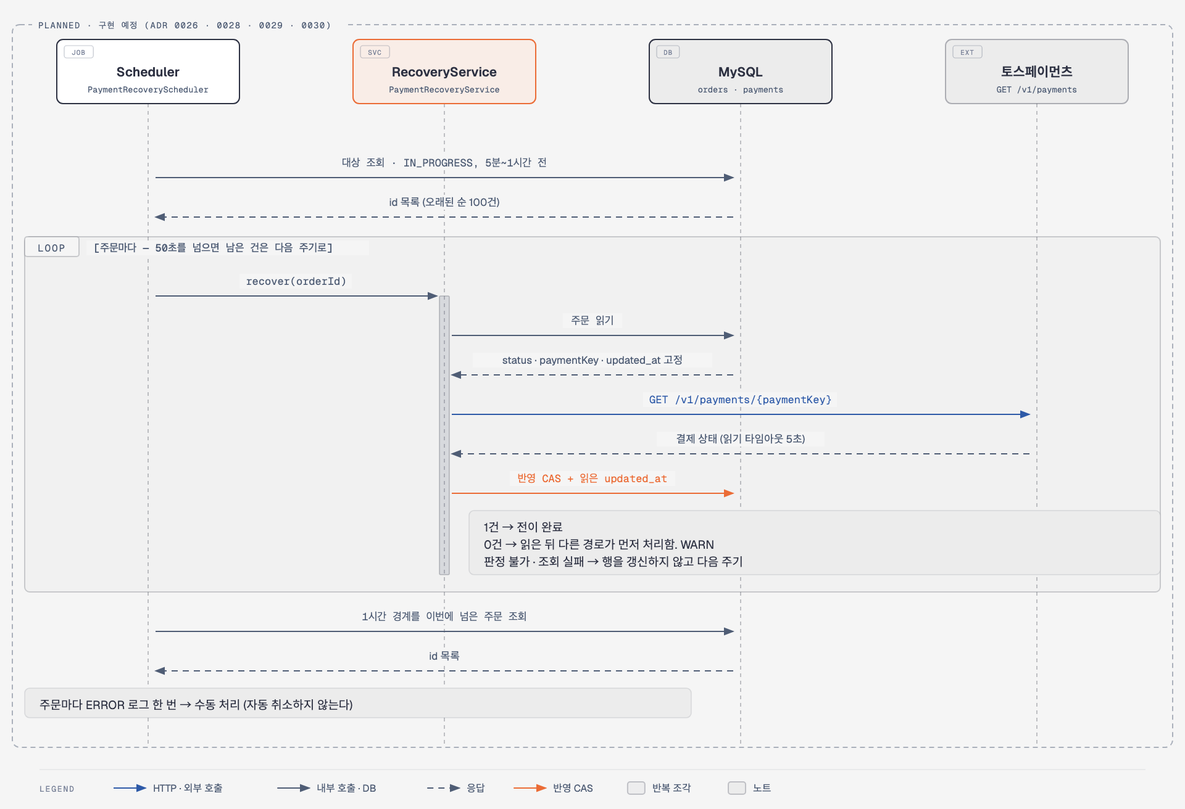
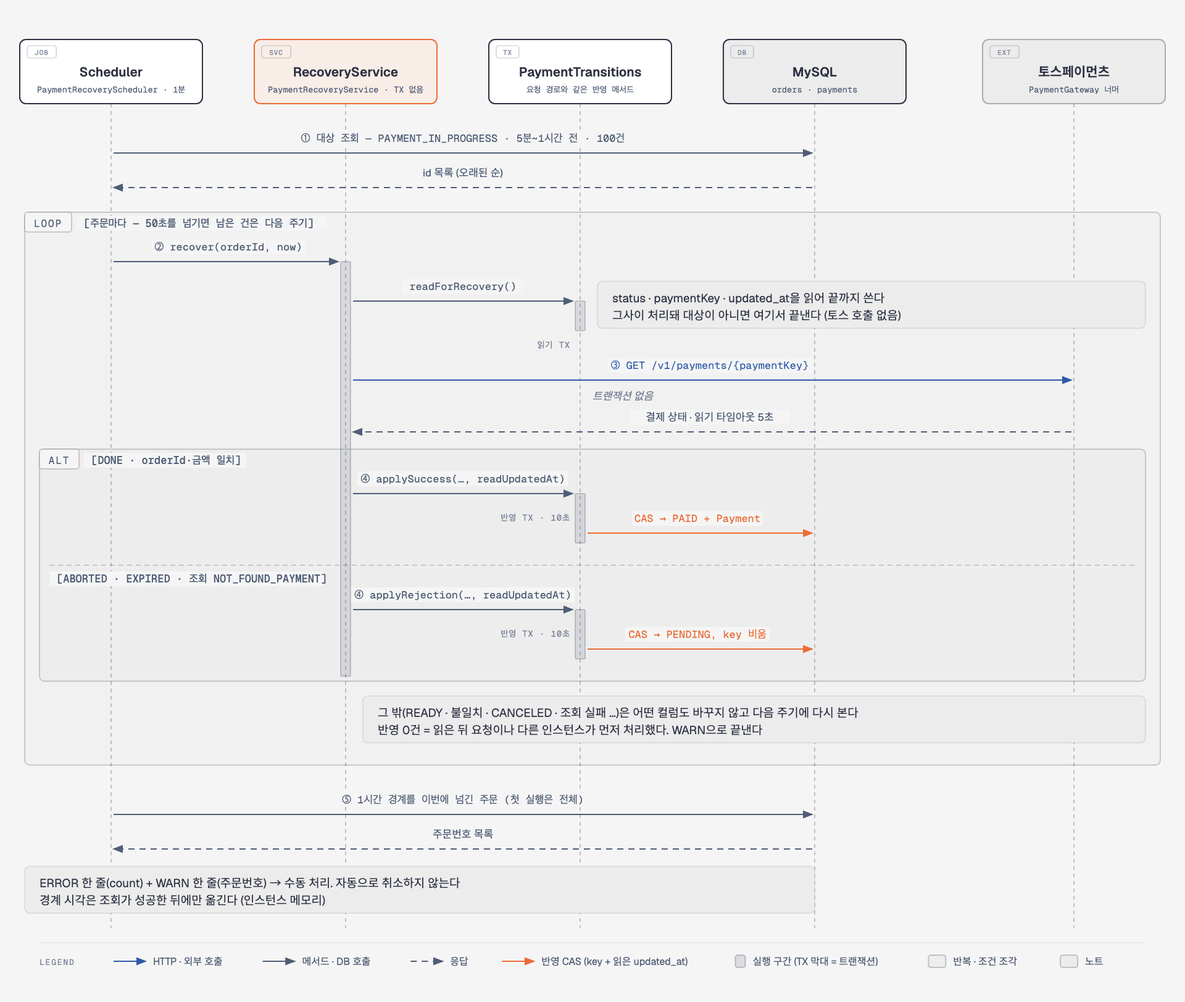
docs: 복구 배치 시퀀스 다이어그램을 구현에 맞춰 다시 그린다

diff --git a/docs/diagrams/src/seq-payment-recovery.html b/docs/diagrams/src/seq-payment-recovery.html
@@ -8,94 +8,123 @@
 <style>html,body{margin:0;padding:0;background:#f5f5f5}svg{display:block}</style>
 </head>
 <body>
-<svg xmlns="http://www.w3.org/2000/svg" viewBox="0 0 960 656" width="960" height="656" role="img" aria-labelledby="seq-payment-recovery-title seq-payment-recovery-desc">
+<svg xmlns="http://www.w3.org/2000/svg" viewBox="0 0 960 812" width="960" height="812" role="img" aria-labelledby="seq-payment-recovery-title seq-payment-recovery-desc">
 <title id="seq-payment-recovery-title">결제 복구 배치</title>
-<desc id="seq-payment-recovery-desc">멈춘 결제·환불 주문을 골라 토스 조회 결과로 상태를 바로잡고, 1시간 넘은 주문을 수동 처리로 넘기는 복구 배치 과정</desc>
-<defs><marker id="seq-payment-recovery-m" markerWidth="8" markerHeight="6" refX="7" refY="3" orient="auto"><polygon points="0 0, 8 3, 0 6" fill="#4f5d75"/></marker><marker id="seq-payment-recovery-i" markerWidth="8" markerHeight="6" refX="7" refY="3" orient="auto"><polygon points="0 0, 8 3, 0 6" fill="#2d3142"/></marker><marker id="seq-payment-recovery-l" markerWidth="8" markerHeight="6" refX="7" refY="3" orient="auto"><polygon points="0 0, 8 3, 0 6" fill="#2e5aa8"/></marker><marker id="seq-payment-recovery-a" markerWidth="8" markerHeight="6" refX="7" refY="3" orient="auto"><polygon points="0 0, 8 3, 0 6" fill="#eb6c36"/></marker></defs>
-<rect width="960" height="656" fill="#f5f5f5"/>
-<line x1="120" y1="84" x2="120" y2="606" stroke="rgba(45,49,66,0.28)" stroke-dasharray="3,3"/>
-<line x1="360" y1="84" x2="360" y2="606" stroke="rgba(45,49,66,0.28)" stroke-dasharray="3,3"/>
-<line x1="600" y1="84" x2="600" y2="606" stroke="rgba(45,49,66,0.28)" stroke-dasharray="3,3"/>
-<line x1="840" y1="84" x2="840" y2="606" stroke="rgba(45,49,66,0.28)" stroke-dasharray="3,3"/>
-<rect x="10" y="20" width="940" height="586" rx="6" fill="none" stroke="rgba(79,93,117,0.45)" stroke-dasharray="4,3"/>
-<rect x="26" y="14" width="255" height="12" fill="#f5f5f5"/>
-<text x="31" y="23" fill="#4f5d75" font-size="7" font-weight="400" font-family="'Geist Mono',ui-monospace,monospace" text-anchor="start" letter-spacing="0.1em">PLANNED · 구현 예정 (ADR 0026 · 0028 · 0029 · 0030)</text>
-<rect x="20" y="192" width="920" height="288" rx="4" fill="rgba(45,49,66,0.02)" stroke="rgba(45,49,66,0.22)"/>
-<rect x="20" y="192" width="44" height="16" rx="2" fill="#f5f5f5" stroke="rgba(45,49,66,0.22)"/>
-<text x="42" y="204" fill="#4f5d75" font-size="8" font-weight="400" font-family="'Geist Mono',ui-monospace,monospace" text-anchor="middle" letter-spacing="0.12em">LOOP</text>
-<rect x="356" y="240" width="8" height="226" rx="1" fill="rgba(79,93,117,0.16)" stroke="rgba(45,49,66,0.28)" stroke-width="0.8"/>
-<path d="M126 144 H594" fill="none" stroke="#4f5d75" stroke-width="1.1" marker-end="url(#seq-payment-recovery-m)"/>
-<rect x="269" y="126" width="182" height="12" fill="#f5f5f5"/>
-<text x="360.0" y="135" fill="#4f5d75" font-size="8.5" font-weight="400" font-family="'Geist Mono',ui-monospace,monospace" text-anchor="middle">대상 조회 · IN_PROGRESS, 5분~1시간 전</text>
-<path d="M594 176 H126" fill="none" stroke="#4f5d75" stroke-width="1.1" stroke-dasharray="5,4" marker-end="url(#seq-payment-recovery-m)"/>
-<rect x="298" y="158" width="123" height="12" fill="#f5f5f5"/>
-<text x="360.0" y="167" fill="#4f5d75" font-size="8.5" font-weight="400" font-family="'Geist','Noto Sans KR','Apple SD Gothic Neo',sans-serif" text-anchor="middle">id 목록 (오래된 순 100건)</text>
-<rect x="70" y="195" width="229" height="12" fill="#f5f5f5"/>
-<text x="76" y="204" fill="#4f5d75" font-size="8.5" font-weight="500" font-family="'Geist Mono',ui-monospace,monospace" text-anchor="start">[주문마다 — 50초를 넘으면 남은 건은 다음 주기로]</text>
-<path d="M126 240 H354" fill="none" stroke="#4f5d75" stroke-width="1.1" marker-end="url(#seq-payment-recovery-m)"/>
-<rect x="194" y="222" width="91" height="12" fill="#f5f5f5"/>
-<text x="240.0" y="231" fill="#4f5d75" font-size="8.5" font-weight="400" font-family="'Geist Mono',ui-monospace,monospace" text-anchor="middle">recover(orderId)</text>
-<path d="M366 272 H594" fill="none" stroke="#4f5d75" stroke-width="1.1" marker-end="url(#seq-payment-recovery-m)"/>
-<rect x="456" y="254" width="48" height="12" fill="#f5f5f5"/>
-<text x="480.0" y="263" fill="#4f5d75" font-size="8.5" font-weight="400" font-family="'Geist Mono',ui-monospace,monospace" text-anchor="middle">주문 읽기</text>
-<path d="M594 304 H366" fill="none" stroke="#4f5d75" stroke-width="1.1" stroke-dasharray="5,4" marker-end="url(#seq-payment-recovery-m)"/>
-<rect x="383" y="286" width="194" height="12" fill="#f5f5f5"/>
-<text x="480.0" y="295" fill="#4f5d75" font-size="8.5" font-weight="400" font-family="'Geist','Noto Sans KR','Apple SD Gothic Neo',sans-serif" text-anchor="middle">status · paymentKey · updated_at 고정</text>
-<path d="M366 336 H834" fill="none" stroke="#2e5aa8" stroke-width="1.1" marker-end="url(#seq-payment-recovery-l)"/>
-<rect x="521" y="318" width="157" height="12" fill="#f5f5f5"/>
-<text x="600.0" y="327" fill="#2e5aa8" font-size="8.5" font-weight="400" font-family="'Geist Mono',ui-monospace,monospace" text-anchor="middle">GET /v1/payments/{paymentKey}</text>
-<path d="M834 368 H366" fill="none" stroke="#4f5d75" stroke-width="1.1" stroke-dasharray="5,4" marker-end="url(#seq-payment-recovery-m)"/>
-<rect x="532" y="350" width="136" height="12" fill="#f5f5f5"/>
-<text x="600.0" y="359" fill="#4f5d75" font-size="8.5" font-weight="400" font-family="'Geist','Noto Sans KR','Apple SD Gothic Neo',sans-serif" text-anchor="middle">결제 상태 (읽기 타임아웃 5초)</text>
-<path d="M366 400 H594" fill="none" stroke="#eb6c36" stroke-width="1.1" marker-end="url(#seq-payment-recovery-a)"/>
-<rect x="413" y="382" width="134" height="12" fill="#f5f5f5"/>
-<text x="480.0" y="391" fill="#eb6c36" font-size="8.5" font-weight="400" font-family="'Geist Mono',ui-monospace,monospace" text-anchor="middle">반영 CAS + 읽은 updated_at</text>
-<rect x="380" y="414" width="560" height="52" rx="4" fill="#ececec" stroke="rgba(45,49,66,0.12)" stroke-width="0.8"/>
-<text x="392" y="431" fill="#2d3142" font-size="9.5" font-weight="400" font-family="'Geist','Noto Sans KR','Apple SD Gothic Neo',sans-serif" text-anchor="start">1건 → 전이 완료</text>
-<text x="392" y="445" fill="#2d3142" font-size="9.5" font-weight="400" font-family="'Geist','Noto Sans KR','Apple SD Gothic Neo',sans-serif" text-anchor="start">0건 → 읽은 뒤 다른 경로가 먼저 처리함. WARN</text>
-<text x="392" y="459" fill="#2d3142" font-size="9.5" font-weight="400" font-family="'Geist','Noto Sans KR','Apple SD Gothic Neo',sans-serif" text-anchor="start">판정 불가 · 조회 실패 → 행을 갱신하지 않고 다음 주기</text>
-<path d="M126 512 H594" fill="none" stroke="#4f5d75" stroke-width="1.1" marker-end="url(#seq-payment-recovery-m)"/>
-<rect x="282" y="494" width="155" height="12" fill="#f5f5f5"/>
-<text x="360.0" y="503" fill="#4f5d75" font-size="8.5" font-weight="400" font-family="'Geist Mono',ui-monospace,monospace" text-anchor="middle">1시간 경계를 이번에 넘은 주문 조회</text>
-<path d="M594 544 H126" fill="none" stroke="#4f5d75" stroke-width="1.1" stroke-dasharray="5,4" marker-end="url(#seq-payment-recovery-m)"/>
-<rect x="339" y="526" width="42" height="12" fill="#f5f5f5"/>
-<text x="360.0" y="535" fill="#4f5d75" font-size="8.5" font-weight="400" font-family="'Geist','Noto Sans KR','Apple SD Gothic Neo',sans-serif" text-anchor="middle">id 목록</text>
-<rect x="20" y="558" width="540" height="24" rx="4" fill="#ececec" stroke="rgba(45,49,66,0.12)" stroke-width="0.8"/>
-<text x="32" y="575" fill="#2d3142" font-size="9.5" font-weight="400" font-family="'Geist','Noto Sans KR','Apple SD Gothic Neo',sans-serif" text-anchor="start">주문마다 ERROR 로그 한 번 → 수동 처리 (자동 취소하지 않는다)</text>
-<rect x="46" y="32" width="148" height="52" rx="5" fill="#ffffff" stroke="#2d3142"/>
-<rect x="52" y="37" width="23.6" height="10" rx="2" fill="none" stroke="rgba(79,93,117,0.35)" stroke-width="0.6"/>
-<text x="63.8" y="44.4" fill="#7a8399" font-size="5.5" font-weight="400" font-family="'Geist Mono',ui-monospace,monospace" text-anchor="middle" letter-spacing="0.08em">JOB</text>
-<text x="120" y="62" fill="#2d3142" font-size="10.5" font-weight="600" font-family="'Geist','Noto Sans KR','Apple SD Gothic Neo',sans-serif" text-anchor="middle">Scheduler</text>
-<text x="120" y="75" fill="#4f5d75" font-size="6.8" font-weight="400" font-family="'Geist Mono',ui-monospace,monospace" text-anchor="middle">PaymentRecoveryScheduler</text>
-<rect x="286" y="32" width="148" height="52" rx="5" fill="#f9ede7" stroke="#eb6c36"/>
-<rect x="292" y="37" width="23.6" height="10" rx="2" fill="none" stroke="rgba(79,93,117,0.35)" stroke-width="0.6"/>
-<text x="303.8" y="44.4" fill="#7a8399" font-size="5.5" font-weight="400" font-family="'Geist Mono',ui-monospace,monospace" text-anchor="middle" letter-spacing="0.08em">SVC</text>
-<text x="360" y="62" fill="#2d3142" font-size="10.5" font-weight="600" font-family="'Geist','Noto Sans KR','Apple SD Gothic Neo',sans-serif" text-anchor="middle">RecoveryService</text>
-<text x="360" y="75" fill="#4f5d75" font-size="6.8" font-weight="400" font-family="'Geist Mono',ui-monospace,monospace" text-anchor="middle">PaymentRecoveryService</text>
-<rect x="526" y="32" width="148" height="52" rx="5" fill="#ececec" stroke="#2d3142"/>
-<rect x="532" y="37" width="18.4" height="10" rx="2" fill="none" stroke="rgba(79,93,117,0.35)" stroke-width="0.6"/>
-<text x="541.2" y="44.4" fill="#7a8399" font-size="5.5" font-weight="400" font-family="'Geist Mono',ui-monospace,monospace" text-anchor="middle" letter-spacing="0.08em">DB</text>
-<text x="600" y="62" fill="#2d3142" font-size="10.5" font-weight="600" font-family="'Geist','Noto Sans KR','Apple SD Gothic Neo',sans-serif" text-anchor="middle">MySQL</text>
-<text x="600" y="75" fill="#4f5d75" font-size="6.8" font-weight="400" font-family="'Geist Mono',ui-monospace,monospace" text-anchor="middle">orders · payments</text>
-<rect x="766" y="32" width="148" height="52" rx="5" fill="#ececec" stroke="rgba(45,49,66,0.35)"/>
-<rect x="772" y="37" width="23.6" height="10" rx="2" fill="none" stroke="rgba(79,93,117,0.35)" stroke-width="0.6"/>
-<text x="783.8" y="44.4" fill="#7a8399" font-size="5.5" font-weight="400" font-family="'Geist Mono',ui-monospace,monospace" text-anchor="middle" letter-spacing="0.08em">EXT</text>
-<text x="840" y="62" fill="#2d3142" font-size="10.5" font-weight="600" font-family="'Geist','Noto Sans KR','Apple SD Gothic Neo',sans-serif" text-anchor="middle">토스페이먼츠</text>
-<text x="840" y="75" fill="#4f5d75" font-size="6.8" font-weight="400" font-family="'Geist Mono',ui-monospace,monospace" text-anchor="middle">GET /v1/payments</text>
-<line x1="32" y1="624" x2="928" y2="624" stroke="rgba(45,49,66,0.12)" stroke-width="0.6"/>
-<text x="32" y="642" fill="#7a8399" font-size="6.5" font-weight="400" font-family="'Geist Mono',ui-monospace,monospace" text-anchor="start" letter-spacing="0.14em">LEGEND</text>
-<path d="M92 639 H118" fill="none" stroke="#2e5aa8" stroke-width="1.1" marker-end="url(#seq-payment-recovery-l)"/>
-<text x="124" y="642" fill="#4f5d75" font-size="8" font-weight="400" font-family="'Geist','Noto Sans KR','Apple SD Gothic Neo',sans-serif" text-anchor="start">HTTP · 외부 호출</text>
-<path d="M224.64000000000001 639 H250.64000000000001" fill="none" stroke="#4f5d75" stroke-width="1.1" marker-end="url(#seq-payment-recovery-m)"/>
-<text x="256.64" y="642" fill="#4f5d75" font-size="8" font-weight="400" font-family="'Geist','Noto Sans KR','Apple SD Gothic Neo',sans-serif" text-anchor="start">내부 호출 · DB</text>
-<path d="M346.12 639 H372.12" fill="none" stroke="#4f5d75" stroke-width="1.1" stroke-dasharray="5,4" marker-end="url(#seq-payment-recovery-m)"/>
-<text x="378.12" y="642" fill="#4f5d75" font-size="8" font-weight="400" font-family="'Geist','Noto Sans KR','Apple SD Gothic Neo',sans-serif" text-anchor="start">응답</text>
-<path d="M416.12 639 H442.12" fill="none" stroke="#eb6c36" stroke-width="1.1" marker-end="url(#seq-payment-recovery-a)"/>
-<text x="448.12" y="642" fill="#4f5d75" font-size="8" font-weight="400" font-family="'Geist','Noto Sans KR','Apple SD Gothic Neo',sans-serif" text-anchor="start">반영 CAS</text>
-<rect x="508.44" y="634" width="14" height="10" rx="2" fill="rgba(45,49,66,0.04)" stroke="rgba(45,49,66,0.25)"/>
-<text x="528.44" y="642" fill="#4f5d75" font-size="8" font-weight="400" font-family="'Geist','Noto Sans KR','Apple SD Gothic Neo',sans-serif" text-anchor="start">반복 조각</text>
-<rect x="590.0200000000001" y="634" width="14" height="10" rx="2" fill="#ececec" stroke="rgba(45,49,66,0.25)"/>
-<text x="610.0200000000001" y="642" fill="#4f5d75" font-size="8" font-weight="400" font-family="'Geist','Noto Sans KR','Apple SD Gothic Neo',sans-serif" text-anchor="start">노트</text>
+<desc id="seq-payment-recovery-desc">1분마다 5분에서 1시간 멈춘 PAYMENT_IN_PROGRESS 주문을 읽고, 트랜잭션 밖에서 토스를 조회해, 요청 경로와 같은 반영 메서드에 읽은 updated_at을 더해 PAID 또는 PENDING으로 바꾼다. 1시간을 넘긴 주문은 한 번 경보한다</desc>
+<defs><marker id="seq-payment-recovery-m" markerWidth="8" markerHeight="6" refX="7" refY="3" orient="auto"><polygon points="0 0, 8 3, 0 6" fill="#4f5d75"/></marker><marker id="seq-payment-recovery-l" markerWidth="8" markerHeight="6" refX="7" refY="3" orient="auto"><polygon points="0 0, 8 3, 0 6" fill="#2e5aa8"/></marker><marker id="seq-payment-recovery-a" markerWidth="8" markerHeight="6" refX="7" refY="3" orient="auto"><polygon points="0 0, 8 3, 0 6" fill="#eb6c36"/></marker></defs>
+<rect width="960" height="812" fill="#f5f5f5"/>
+<line x1="90" y1="84" x2="90" y2="752" stroke="rgba(45,49,66,0.28)" stroke-dasharray="3,3"/>
+<line x1="280" y1="84" x2="280" y2="752" stroke="rgba(45,49,66,0.28)" stroke-dasharray="3,3"/>
+<line x1="470" y1="84" x2="470" y2="752" stroke="rgba(45,49,66,0.28)" stroke-dasharray="3,3"/>
+<line x1="660" y1="84" x2="660" y2="752" stroke="rgba(45,49,66,0.28)" stroke-dasharray="3,3"/>
+<line x1="870" y1="84" x2="870" y2="752" stroke="rgba(45,49,66,0.28)" stroke-dasharray="3,3"/>
+<rect x="20" y="172" width="920" height="448" rx="4" fill="rgba(45,49,66,0.02)" stroke="rgba(45,49,66,0.22)"/>
+<rect x="20" y="172" width="38" height="16" rx="2" fill="#f5f5f5" stroke="rgba(45,49,66,0.22)"/>
+<text x="39.0" y="184" fill="#4f5d75" font-size="8" font-weight="400" font-family="'Geist Mono',ui-monospace,monospace" text-anchor="middle" letter-spacing="0.12em">LOOP</text>
+<rect x="32" y="364" width="896" height="188" rx="4" fill="rgba(45,49,66,0.02)" stroke="rgba(45,49,66,0.22)"/>
+<rect x="32" y="364" width="32" height="16" rx="2" fill="#f5f5f5" stroke="rgba(45,49,66,0.22)"/>
+<text x="48.0" y="376" fill="#4f5d75" font-size="8" font-weight="400" font-family="'Geist Mono',ui-monospace,monospace" text-anchor="middle" letter-spacing="0.12em">ALT</text>
+<line x1="40" y1="458" x2="920" y2="458" stroke="rgba(45,49,66,0.20)" stroke-dasharray="4,3"/>
+<rect x="276" y="212" width="8" height="336" rx="1" fill="rgba(79,93,117,0.16)" stroke="rgba(45,49,66,0.28)" stroke-width="0.8"/>
+<rect x="466" y="244" width="8" height="24" rx="1" fill="rgba(79,93,117,0.16)" stroke="rgba(45,49,66,0.28)" stroke-width="0.8"/>
+<rect x="466" y="400" width="8" height="40" rx="1" fill="rgba(79,93,117,0.16)" stroke="rgba(45,49,66,0.28)" stroke-width="0.8"/>
+<rect x="466" y="494" width="8" height="40" rx="1" fill="rgba(79,93,117,0.16)" stroke="rgba(45,49,66,0.28)" stroke-width="0.8"/>
+<path d="M92 124 H658" fill="none" stroke="#4f5d75" stroke-width="1.1" marker-end="url(#seq-payment-recovery-m)"/>
+<rect x="243.4" y="106" width="263.2" height="12" fill="#f5f5f5"/>
+<text x="375.0" y="115" fill="#4f5d75" font-size="8.5" font-weight="400" font-family="'Geist Mono',ui-monospace,monospace" text-anchor="middle">① 대상 조회 — PAYMENT_IN_PROGRESS · 5분~1시간 전 · 100건</text>
+<path d="M658 152 H92" fill="none" stroke="#4f5d75" stroke-width="1.1" stroke-dasharray="5,4" marker-end="url(#seq-payment-recovery-m)"/>
+<rect x="329.5" y="134" width="91.0" height="12" fill="#f5f5f5"/>
+<text x="375.0" y="143" fill="#4f5d75" font-size="8.5" font-weight="400" font-family="'Geist','Noto Sans KR','Apple SD Gothic Neo',sans-serif" text-anchor="middle">id 목록 (오래된 순)</text>
+<rect x="62" y="175" width="202.8" height="12" fill="#f5f5f5"/>
+<text x="68" y="184" fill="#4f5d75" font-size="8.5" font-weight="500" font-family="'Geist Mono',ui-monospace,monospace" text-anchor="start">[주문마다 — 50초를 넘기면 남은 건은 다음 주기]</text>
+<path d="M92 212 H274" fill="none" stroke="#4f5d75" stroke-width="1.1" marker-end="url(#seq-payment-recovery-m)"/>
+<rect x="122.5" y="194" width="125.0" height="12" fill="#f5f5f5"/>
+<text x="185.0" y="203" fill="#4f5d75" font-size="8.5" font-weight="400" font-family="'Geist Mono',ui-monospace,monospace" text-anchor="middle">② recover(orderId, now)</text>
+<path d="M286 244 H464" fill="none" stroke="#4f5d75" stroke-width="1.1" marker-end="url(#seq-payment-recovery-m)"/>
+<rect x="325.6" y="226" width="98.7" height="12" fill="#f5f5f5"/>
+<text x="375.0" y="235" fill="#4f5d75" font-size="8.5" font-weight="400" font-family="'Geist Mono',ui-monospace,monospace" text-anchor="middle">readForRecovery()</text>
+<text x="462" y="282" fill="#7a8399" font-size="7" font-weight="400" font-family="'Geist Mono',ui-monospace,monospace" text-anchor="end" letter-spacing="0.06em">읽기 TX</text>
+<rect x="484" y="228" width="444" height="38" rx="4" fill="#ececec" stroke="rgba(45,49,66,0.12)" stroke-width="0.8"/>
+<text x="496" y="245" fill="#2d3142" font-size="9.5" font-weight="400" font-family="'Geist','Noto Sans KR','Apple SD Gothic Neo',sans-serif" text-anchor="start">status · paymentKey · updated_at을 읽어 끝까지 쓴다</text>
+<text x="496" y="259" fill="#2d3142" font-size="9.5" font-weight="400" font-family="'Geist','Noto Sans KR','Apple SD Gothic Neo',sans-serif" text-anchor="start">그사이 처리돼 대상이 아니면 여기서 끝낸다 (토스 호출 없음)</text>
+<path d="M286 308 H868" fill="none" stroke="#2e5aa8" stroke-width="1.1" marker-end="url(#seq-payment-recovery-l)"/>
+<rect x="492.1" y="290" width="165.8" height="12" fill="#f5f5f5"/>
+<text x="575.0" y="299" fill="#2e5aa8" font-size="8.5" font-weight="400" font-family="'Geist Mono',ui-monospace,monospace" text-anchor="middle">③ GET /v1/payments/{paymentKey}</text>
+<text x="480" y="324" fill="#7a8399" font-size="8.5" font-weight="400" font-family="'Geist','Noto Sans KR','Apple SD Gothic Neo',sans-serif" text-anchor="start" font-style="italic">트랜잭션 없음</text>
+<path d="M868 350 H286" fill="none" stroke="#4f5d75" stroke-width="1.1" stroke-dasharray="5,4" marker-end="url(#seq-payment-recovery-m)"/>
+<rect x="510.1" y="332" width="129.9" height="12" fill="#f5f5f5"/>
+<text x="575.0" y="341" fill="#4f5d75" font-size="8.5" font-weight="400" font-family="'Geist','Noto Sans KR','Apple SD Gothic Neo',sans-serif" text-anchor="middle">결제 상태 · 읽기 타임아웃 5초</text>
+<rect x="68" y="367" width="131.4" height="12" fill="#f5f5f5"/>
+<text x="74" y="376" fill="#4f5d75" font-size="8.5" font-weight="500" font-family="'Geist Mono',ui-monospace,monospace" text-anchor="start">[DONE · orderId·금액 일치]</text>
+<path d="M286 400 H464" fill="none" stroke="#4f5d75" stroke-width="1.1" marker-end="url(#seq-payment-recovery-m)"/>
+<rect x="289.5" y="382" width="170.9" height="12" fill="#f5f5f5"/>
+<text x="375.0" y="391" fill="#4f5d75" font-size="8.5" font-weight="400" font-family="'Geist Mono',ui-monospace,monospace" text-anchor="middle">④ applySuccess(…, readUpdatedAt)</text>
+<text x="462" y="422" fill="#7a8399" font-size="7" font-weight="400" font-family="'Geist Mono',ui-monospace,monospace" text-anchor="end" letter-spacing="0.06em">반영 TX · 10초</text>
+<path d="M476 432 H658" fill="none" stroke="#eb6c36" stroke-width="1.1" marker-end="url(#seq-payment-recovery-a)"/>
+<rect x="512.2" y="414" width="105.5" height="12" fill="#f5f5f5"/>
+<text x="565.0" y="423" fill="#eb6c36" font-size="8.5" font-weight="400" font-family="'Geist Mono',ui-monospace,monospace" text-anchor="middle">CAS → PAID + Payment</text>
+<rect x="40" y="463" width="222.4" height="12" fill="#f5f5f5"/>
+<text x="46" y="472" fill="#4f5d75" font-size="8.5" font-weight="500" font-family="'Geist Mono',ui-monospace,monospace" text-anchor="start">[ABORTED · EXPIRED · 조회 NOT_FOUND_PAYMENT]</text>
+<path d="M286 494 H464" fill="none" stroke="#4f5d75" stroke-width="1.1" marker-end="url(#seq-payment-recovery-m)"/>
+<rect x="284.4" y="476" width="181.1" height="12" fill="#f5f5f5"/>
+<text x="375.0" y="485" fill="#4f5d75" font-size="8.5" font-weight="400" font-family="'Geist Mono',ui-monospace,monospace" text-anchor="middle">④ applyRejection(…, readUpdatedAt)</text>
+<text x="462" y="516" fill="#7a8399" font-size="7" font-weight="400" font-family="'Geist Mono',ui-monospace,monospace" text-anchor="end" letter-spacing="0.06em">반영 TX · 10초</text>
+<path d="M476 526 H658" fill="none" stroke="#eb6c36" stroke-width="1.1" marker-end="url(#seq-payment-recovery-a)"/>
+<rect x="506.3" y="508" width="117.4" height="12" fill="#f5f5f5"/>
+<text x="565.0" y="517" fill="#eb6c36" font-size="8.5" font-weight="400" font-family="'Geist Mono',ui-monospace,monospace" text-anchor="middle">CAS → PENDING, key 비움</text>
+<rect x="294" y="564" width="634" height="38" rx="4" fill="#ececec" stroke="rgba(45,49,66,0.12)" stroke-width="0.8"/>
+<text x="306" y="581" fill="#2d3142" font-size="9.5" font-weight="400" font-family="'Geist','Noto Sans KR','Apple SD Gothic Neo',sans-serif" text-anchor="start">그 밖(READY · 불일치 · CANCELED · 조회 실패 …)은 어떤 컬럼도 바꾸지 않고 다음 주기에 다시 본다</text>
+<text x="306" y="595" fill="#2d3142" font-size="9.5" font-weight="400" font-family="'Geist','Noto Sans KR','Apple SD Gothic Neo',sans-serif" text-anchor="start">반영 0건 = 읽은 뒤 요청이나 다른 인스턴스가 먼저 처리했다. WARN으로 끝낸다</text>
+<path d="M92 660 H658" fill="none" stroke="#4f5d75" stroke-width="1.1" marker-end="url(#seq-payment-recovery-m)"/>
+<rect x="270.4" y="642" width="209.2" height="12" fill="#f5f5f5"/>
+<text x="375.0" y="651" fill="#4f5d75" font-size="8.5" font-weight="400" font-family="'Geist Mono',ui-monospace,monospace" text-anchor="middle">⑤ 1시간 경계를 이번에 넘긴 주문 (첫 실행은 전체)</text>
+<path d="M658 688 H92" fill="none" stroke="#4f5d75" stroke-width="1.1" stroke-dasharray="5,4" marker-end="url(#seq-payment-recovery-m)"/>
+<rect x="342.0" y="670" width="66.0" height="12" fill="#f5f5f5"/>
+<text x="375.0" y="679" fill="#4f5d75" font-size="8.5" font-weight="400" font-family="'Geist','Noto Sans KR','Apple SD Gothic Neo',sans-serif" text-anchor="middle">주문번호 목록</text>
+<rect x="20" y="702" width="640" height="38" rx="4" fill="#ececec" stroke="rgba(45,49,66,0.12)" stroke-width="0.8"/>
+<text x="32" y="719" fill="#2d3142" font-size="9.5" font-weight="400" font-family="'Geist','Noto Sans KR','Apple SD Gothic Neo',sans-serif" text-anchor="start">ERROR 한 줄(count) + WARN 한 줄(주문번호) → 수동 처리. 자동으로 취소하지 않는다</text>
+<text x="32" y="733" fill="#2d3142" font-size="9.5" font-weight="400" font-family="'Geist','Noto Sans KR','Apple SD Gothic Neo',sans-serif" text-anchor="start">경계 시각은 조회가 성공한 뒤에만 옮긴다 (인스턴스 메모리)</text>
+<rect x="16" y="32" width="148" height="52" rx="5" fill="#ffffff" stroke="#2d3142"/>
+<rect x="22" y="37" width="23.6" height="10" rx="2" fill="none" stroke="rgba(79,93,117,0.35)" stroke-width="0.6"/>
+<text x="33.8" y="44.4" fill="#7a8399" font-size="5.5" font-weight="400" font-family="'Geist Mono',ui-monospace,monospace" text-anchor="middle" letter-spacing="0.08em">JOB</text>
+<text x="90" y="62" fill="#2d3142" font-size="10.5" font-weight="600" font-family="'Geist','Noto Sans KR','Apple SD Gothic Neo',sans-serif" text-anchor="middle">Scheduler</text>
+<text x="90" y="75" fill="#4f5d75" font-size="6.8" font-weight="400" font-family="'Geist Mono',ui-monospace,monospace" text-anchor="middle">PaymentRecoveryScheduler · 1분</text>
+<rect x="206" y="32" width="148" height="52" rx="5" fill="#f9ede7" stroke="#eb6c36"/>
+<rect x="212" y="37" width="23.6" height="10" rx="2" fill="none" stroke="rgba(79,93,117,0.35)" stroke-width="0.6"/>
+<text x="223.8" y="44.4" fill="#7a8399" font-size="5.5" font-weight="400" font-family="'Geist Mono',ui-monospace,monospace" text-anchor="middle" letter-spacing="0.08em">SVC</text>
+<text x="280" y="62" fill="#2d3142" font-size="10.5" font-weight="600" font-family="'Geist','Noto Sans KR','Apple SD Gothic Neo',sans-serif" text-anchor="middle">RecoveryService</text>
+<text x="280" y="75" fill="#4f5d75" font-size="6.8" font-weight="400" font-family="'Geist Mono',ui-monospace,monospace" text-anchor="middle">PaymentRecoveryService · TX 없음</text>
+<rect x="396" y="32" width="148" height="52" rx="5" fill="#ffffff" stroke="#2d3142"/>
+<rect x="402" y="37" width="18.4" height="10" rx="2" fill="none" stroke="rgba(79,93,117,0.35)" stroke-width="0.6"/>
+<text x="411.2" y="44.4" fill="#7a8399" font-size="5.5" font-weight="400" font-family="'Geist Mono',ui-monospace,monospace" text-anchor="middle" letter-spacing="0.08em">TX</text>
+<text x="470" y="62" fill="#2d3142" font-size="10.5" font-weight="600" font-family="'Geist','Noto Sans KR','Apple SD Gothic Neo',sans-serif" text-anchor="middle">PaymentTransitions</text>
+<text x="470" y="75" fill="#4f5d75" font-size="6.8" font-weight="400" font-family="'Geist Mono',ui-monospace,monospace" text-anchor="middle">요청 경로와 같은 반영 메서드</text>
+<rect x="586" y="32" width="148" height="52" rx="5" fill="#ececec" stroke="#2d3142"/>
+<rect x="592" y="37" width="18.4" height="10" rx="2" fill="none" stroke="rgba(79,93,117,0.35)" stroke-width="0.6"/>
+<text x="601.2" y="44.4" fill="#7a8399" font-size="5.5" font-weight="400" font-family="'Geist Mono',ui-monospace,monospace" text-anchor="middle" letter-spacing="0.08em">DB</text>
+<text x="660" y="62" fill="#2d3142" font-size="10.5" font-weight="600" font-family="'Geist','Noto Sans KR','Apple SD Gothic Neo',sans-serif" text-anchor="middle">MySQL</text>
+<text x="660" y="75" fill="#4f5d75" font-size="6.8" font-weight="400" font-family="'Geist Mono',ui-monospace,monospace" text-anchor="middle">orders · payments</text>
+<rect x="796" y="32" width="148" height="52" rx="5" fill="#ececec" stroke="rgba(45,49,66,0.35)"/>
+<rect x="802" y="37" width="23.6" height="10" rx="2" fill="none" stroke="rgba(79,93,117,0.35)" stroke-width="0.6"/>
+<text x="813.8" y="44.4" fill="#7a8399" font-size="5.5" font-weight="400" font-family="'Geist Mono',ui-monospace,monospace" text-anchor="middle" letter-spacing="0.08em">EXT</text>
+<text x="870" y="62" fill="#2d3142" font-size="10.5" font-weight="600" font-family="'Geist','Noto Sans KR','Apple SD Gothic Neo',sans-serif" text-anchor="middle">토스페이먼츠</text>
+<text x="870" y="75" fill="#4f5d75" font-size="6.8" font-weight="400" font-family="'Geist Mono',ui-monospace,monospace" text-anchor="middle">PaymentGateway 너머</text>
+<line x1="32" y1="764" x2="928" y2="764" stroke="rgba(45,49,66,0.12)" stroke-width="0.6"/>
+<text x="32" y="782" fill="#7a8399" font-size="6.5" font-weight="400" font-family="'Geist Mono',ui-monospace,monospace" text-anchor="start" letter-spacing="0.14em">LEGEND</text>
+<path d="M92 779 H118" fill="none" stroke="#2e5aa8" stroke-width="1.1" marker-end="url(#seq-payment-recovery-l)"/>
+<text x="124" y="782" fill="#4f5d75" font-size="8" font-weight="400" font-family="'Geist','Noto Sans KR','Apple SD Gothic Neo',sans-serif" text-anchor="start">HTTP · 외부 호출</text>
+<path d="M212.8 779 H238.8" fill="none" stroke="#4f5d75" stroke-width="1.1" marker-end="url(#seq-payment-recovery-m)"/>
+<text x="244.8" y="782" fill="#4f5d75" font-size="8" font-weight="400" font-family="'Geist','Noto Sans KR','Apple SD Gothic Neo',sans-serif" text-anchor="start">메서드 · DB 호출</text>
+<path d="M332.64 779 H358.64" fill="none" stroke="#4f5d75" stroke-width="1.1" stroke-dasharray="5,4" marker-end="url(#seq-payment-recovery-m)"/>
+<text x="364.64" y="782" fill="#4f5d75" font-size="8" font-weight="400" font-family="'Geist','Noto Sans KR','Apple SD Gothic Neo',sans-serif" text-anchor="start">응답</text>
+<path d="M406.64 779 H432.64" fill="none" stroke="#eb6c36" stroke-width="1.1" marker-end="url(#seq-payment-recovery-a)"/>
+<text x="438.64" y="782" fill="#4f5d75" font-size="8" font-weight="400" font-family="'Geist','Noto Sans KR','Apple SD Gothic Neo',sans-serif" text-anchor="start">반영 CAS (key + 읽은 updated_at)</text>
+<rect x="595.76" y="774" width="8" height="10" rx="2" fill="rgba(79,93,117,0.16)" stroke="rgba(45,49,66,0.25)"/>
+<text x="609.76" y="782" fill="#4f5d75" font-size="8" font-weight="400" font-family="'Geist','Noto Sans KR','Apple SD Gothic Neo',sans-serif" text-anchor="start">실행 구간 (TX 막대 = 트랜잭션)</text>
+<rect x="752.16" y="774" width="14" height="10" rx="2" fill="rgba(45,49,66,0.04)" stroke="rgba(45,49,66,0.25)"/>
+<text x="772.16" y="782" fill="#4f5d75" font-size="8" font-weight="400" font-family="'Geist','Noto Sans KR','Apple SD Gothic Neo',sans-serif" text-anchor="start">반복 · 조건 조각</text>
+<rect x="859.04" y="774" width="14" height="10" rx="2" fill="#ececec" stroke="rgba(45,49,66,0.25)"/>
+<text x="879.04" y="782" fill="#4f5d75" font-size="8" font-weight="400" font-family="'Geist','Noto Sans KR','Apple SD Gothic Neo',sans-serif" text-anchor="start">노트</text>
 </svg>
 </body>
 </html>

diff --git a/docs/diagrams/purchase/seq-payment-recovery.md b/docs/diagrams/purchase/seq-payment-recovery.md
@@ -1,10 +1,10 @@
 # 결제 복구 배치
 
-> 이 그림은 [ADR 0026](../../decisions/purchase/0026-payment-confirm-outside-transaction.md)·[0028](../../decisions/purchase/0028-payment-result-whitelist-and-recovery-limit.md)·[0029](../../decisions/purchase/0029-refund-outside-transaction.md)·[0030](../../decisions/purchase/0030-recovery-batch-runtime-limits.md)의 설계다. 구현 진행은 [roadmap.md](../../roadmap.md)가 소유한다.
+> 이 그림은 Phase 4 · 11단계에서 구현한 **승인 판정**이다. `REFUND_IN_PROGRESS` 판정은 12단계에서 같은 배치에 더한다. 설계 근거는 [ADR 0026](../../decisions/purchase/0026-payment-confirm-outside-transaction.md)·[0028](../../decisions/purchase/0028-payment-result-whitelist-and-recovery-limit.md)·[0030](../../decisions/purchase/0030-recovery-batch-runtime-limits.md), 구현 진행은 [roadmap.md](../../roadmap.md)가 소유한다.
 
-- **답하는 질문**: 결과를 모른 채 멈춘 결제·환불 주문을 어떻게 토스 기준으로 바로잡고, 판정되지 않는 주문은 어떻게 넘기는가
+- **답하는 질문**: 결과를 모른 채 `PAYMENT_IN_PROGRESS`에 멈춘 주문을 어떻게 토스 기준으로 바로잡고, 판정되지 않는 주문은 어떻게 넘기는가
 - **범위**: `PaymentRecoveryScheduler` 한 번 실행. 판정 표는 [payment.md](../../domains/purchase/payment.md)의 "복구 배치"가 기준이다
-- **원천**: [payment.md](../../domains/purchase/payment.md) · ADR [0026](../../decisions/purchase/0026-payment-confirm-outside-transaction.md) · [0028](../../decisions/purchase/0028-payment-result-whitelist-and-recovery-limit.md) · [0029](../../decisions/purchase/0029-refund-outside-transaction.md) · [0030](../../decisions/purchase/0030-recovery-batch-runtime-limits.md)
+- **원천**: [payment.md](../../domains/purchase/payment.md) · `PaymentRecoveryScheduler` · `PaymentRecoveryService` · `PaymentTransitions`
 
 ![결제 복구 배치 시퀀스](../images/seq-payment-recovery.png)
 
@@ -15,40 +15,133 @@
 sequenceDiagram
     participant J as Scheduler (PaymentRecoveryScheduler)
     participant S as RecoveryService (PaymentRecoveryService)
+    participant X as PaymentTransitions
     participant M as MySQL
     participant T as 토스페이먼츠
 
-    J->>M: 대상 조회 · IN_PROGRESS, 5분~1시간 전
-    M-->>J: id 목록 (오래된 순 100건)
-    loop 주문마다 — 50초를 넘으면 남은 건은 다음 주기로
-        J->>S: recover(orderId)
-        S->>M: 주문 읽기
-        M-->>S: status · paymentKey · updated_at 고정
-        S->>T: GET /v1/payments/{paymentKey}
-        T-->>S: 결제 상태 (읽기 타임아웃 5초)
-        S->>M: 반영 CAS + 읽은 updated_at
-        Note over S,T: 1건 → 전이 완료<br/>0건 → 읽은 뒤 다른 경로가 먼저 처리함. WARN<br/>판정 불가 · 조회 실패 → 행을 갱신하지 않고 다음 주기
+    J->>M: ① 대상 조회 — PAYMENT_IN_PROGRESS · 5분~1시간 전 · 100건
+    M-->>J: id 목록 (오래된 순)
+    loop 주문마다 — 50초를 넘기면 남은 건은 다음 주기
+        J->>S: ② recover(orderId, now)
+        activate S
+        S->>X: readForRecovery()
+        Note right of X: status · paymentKey · updated_at을 읽어 끝까지 쓴다<br/>그사이 처리돼 대상이 아니면 여기서 끝낸다
+        S->>T: ③ GET /v1/payments/{paymentKey}
+        Note right of X: 트랜잭션 없음
+        T-->>S: 결제 상태 · 읽기 타임아웃 5초
+        alt DONE · orderId·금액 일치
+            S->>X: ④ applySuccess(…, readUpdatedAt)
+            X->>M: CAS → PAID + Payment
+        else ABORTED · EXPIRED · 조회 NOT_FOUND_PAYMENT
+            S->>X: ④ applyRejection(…, readUpdatedAt)
+            X->>M: CAS → PENDING, key 비움
+        end
+        deactivate S
+        Note over S,T: 그 밖은 어떤 컬럼도 바꾸지 않고 다음 주기에 다시 본다<br/>반영 0건 = 읽은 뒤 다른 경로가 먼저 처리. WARN
     end
-    J->>M: 1시간 경계를 이번에 넘은 주문 조회
-    M-->>J: id 목록
-    Note over J,M: 주문마다 ERROR 로그 한 번 → 수동 처리 (자동 취소하지 않는다)
+    J->>M: ⑤ 1시간 경계를 이번에 넘긴 주문 (첫 실행은 전체)
+    M-->>J: 주문번호 목록
+    Note over J,M: ERROR 한 줄(count) + WARN 한 줄(주문번호) → 수동 처리<br/>경계 시각은 조회가 성공한 뒤에만 옮긴다
 ```
 
 </details>
 
-## 읽는 법
+## 그림 따라 읽기
 
-**대상 고르기**
-- **판정 대상은 `updated_at`이 5분 넘게 지난 주문이다.** 1분은 실행 주기일 뿐이다. 요청은 최대 약 100초 안에 끝나므로, 살아 있는 요청과 배치가 같은 주문을 판정하지 않는다
-- 1시간이 넘은 주문은 대상에서 뺀다. 판정되지 않는 주문이 오래된 순 조회의 앞을 막지 않게 하려는 것이다
+그림의 번호 순서대로 읽는다. 각 단계는 **무엇을 하나** → **왜 그렇게 하나** 순서다.
 
-**판정과 반영**
-- **토스 조회는 트랜잭션 밖이다.** 조회가 느려도 커넥션과 행 락을 쥐지 않는다
-- **반영은 요청 경로와 같은 CAS에 읽은 `updated_at`을 더한다.** 승인은 `status`·`payment_key`, 환불은 `status`를 비교하고, 배치는 여기에 `updated_at`까지 본다. 상태가 같은 값으로 되돌아와도 `updated_at`이 달라 옛 조회 결과가 새 시도에 반영되지 않는다
-- 0건이면 다른 경로가 먼저 처리한 것이라 WARN으로 끝낸다
-- 처음 읽은 `paymentKey`를 그대로 CAS에 넘긴다. 그사이 거절 → 재시도로 키가 바뀌었으면 0건으로 끝난다
-- 판정하지 못하면 행을 건드리지 않는다. `updated_at`이 바뀌면 1시간 종결 시계가 리셋된다
+### 0. 언제, 어디서 도나
 
-**종결**
-- 1시간 경계를 막 넘은 주문만 ERROR 로그를 한 번 남긴다. 자동으로 취소하지 않는다. 돈이 빠져나갔을 수 있어서다
-- 실행당 50초 예산은 다음 주문을 시작하기 전에만 확인한다. 넘으면 남은 건은 다음 주기로 넘어간다
+- 1분마다 돈다(`fixedDelay`). 앞 실행이 끝난 뒤 1분을 센다. 그래서 한 인스턴스 안에서는 배치가 자기 자신과 겹치지 않는다
+- 인스턴스마다 따로 돈다. 서버가 여러 대면 같은 주문을 동시에 판정할 수 있고, 그 경합은 ④의 CAS가 막는다. 분산 락은 쓰지 않는다
+- 스케줄러 스레드는 2개다(`spring.task.scheduling.pool.size`). 토스가 느려 이 배치가 길어져도 `PENDING` 만료 배치는 멈추지 않는다
+
+### ① 대상 조회
+
+**무엇을 하나**
+- `updated_at`이 **5분 ~ 1시간 전**인 `PAYMENT_IN_PROGRESS` 주문을 오래된 순으로 100건 가져온다(`findRecoveryTargetIds`)
+
+**왜 그 구간인가**
+- **5분보다 최근인 주문은 보지 않는다.** 요청 하나의 최대 수명은 약 100초다. 그래서 아직 살아 있는 요청과 배치가 같은 주문을 판정하지 않는다
+- **1시간이 넘은 주문은 뺀다.** 판정되지 않는 주문이 오래된 순 조회의 앞을 계속 차지하면, 정상적으로 복구될 주문이 밀린다. 1시간이 넘은 주문은 ⑤가 사람에게 넘긴다
+
+### ② 주문마다 판정 — `recover(orderId, now)`
+
+**무엇을 하나**
+- 대상 주문을 하나씩 처리한다. 다음 주문을 시작하기 전에 경과 시간을 보고, 50초를 넘겼으면 남은 주문은 다음 주기로 넘긴다
+- `readForRecovery()`가 새 읽기 트랜잭션에서 주문의 `status` · `paymentKey` · `updated_at`을 읽는다. 이 세 값은 ④까지 그대로 쓴다
+
+**왜 그렇게 하나**
+- **처리 중인 주문은 끊지 않는다.** 조회 결과를 받아 놓고 버리는 낭비를 피한다. 그래서 실제 상한은 50초 + 한 건이다
+- **한 건이 실패해도 나머지는 계속한다.** 예외는 WARN으로 남기고 다음 주문으로 넘어간다. 행을 건드리지 않았으니 다음 주기에 다시 판정된다
+- **읽은 값이 대상이 아니면 끝낸다** — 그림의 노트. ①에서 고른 뒤 읽기 전에 요청이나 다른 인스턴스가 이미 처리했을 수 있다. 상태가 바뀌었거나 구간을 벗어났으면 토스를 부르지 않는다
+
+### ③ 토스 조회 — 트랜잭션 밖
+
+**무엇을 하나**
+- 읽어 둔 `paymentKey`로 `PaymentGateway.getPayment()`를 부른다(`GET /v1/payments/{paymentKey}`)
+
+**왜 그렇게 하나**
+- **트랜잭션 밖이다.** 조회가 느려도 커넥션과 행 잠금을 쥐지 않는다
+- **읽기 타임아웃이 5초로 짧다.** 승인·취소(30초)와 다른 클라이언트를 쓴다. 조회는 실패해도 다음 주기에 다시 하면 되고, 배치를 오래 붙잡으면 안 된다
+
+### ④ 반영 — 요청 경로와 같은 메서드
+
+조회 결과가 둘 중 하나일 때만 반영한다. 그림의 `ALT`가 그 둘이다.
+
+**승인됨 — `applySuccess()`**
+- `status`가 `DONE`이고 `orderId` · 금액이 주문과 같을 때다
+- CAS `PAYMENT_IN_PROGRESS → PAID`, 1건일 때만 같은 트랜잭션에서 `Payment(SUCCESS)`를 저장한다
+
+**승인되지 않음 — `applyRejection()`**
+- `ABORTED` · `EXPIRED`이거나, 조회가 `NOT_FOUND_PAYMENT`로 거절됐을 때다. 토스에 결제가 끝나지 않았거나 아예 없다
+- CAS `PAYMENT_IN_PROGRESS → PENDING`, `paymentKey`를 비운다. 사용자는 같은 주문으로 다시 결제할 수 있다
+
+**두 CAS 모두 읽은 `updated_at`을 비교한다**
+- 10단계 요청 경로가 쓰는 메서드와 같다. 배치는 여기에 `readUpdatedAt`(②에서 읽은 값)을 넘긴다
+  - 요청 경로는 `null`을 넘겨 이 조건을 건너뛴다(`readUpdatedAt is null or updated_at = readUpdatedAt`)
+- 모든 상태 전이는 `updated_at`을 새로 쓴다. 그래서 `updated_at`이 읽은 값 그대로면, 그사이 아무도 행을 바꾸지 않았다는 뜻이다
+- 읽은 뒤 누가 행을 바꿨으면 상태와 키가 같아도 0건이 된다. 옛 조회 결과가 새 시도에 반영되지 않는다(ABA)
+- 조회에 쓴 `paymentKey`도 그대로 넘긴다. 그사이 거절 → 재선점으로 키가 바뀌었으면 역시 0건이다
+
+**그 밖 — 그림의 아래 노트**
+- 아래 결과는 **어떤 컬럼도 바꾸지 않는다.** `updated_at`도 그대로다
+
+| 조회 결과 | 로그 | 이유 |
+|---|---|---|
+| `READY`, `IN_PROGRESS` | DEBUG | 아직 진행 중. 토스에서 만료되면 다음 조회가 `EXPIRED`로 정리한다 |
+| `DONE` + `orderId`·금액 불일치 | WARN | 다른 주문의 결제다. 1시간 뒤 사람이 본다 |
+| `CANCELED`, `PARTIAL_CANCELED`, `WAITING_FOR_DEPOSIT`, 모르는 상태 | WARN | 이 흐름에서 나올 수 없는 상태다. 1시간 뒤 사람이 본다 |
+| 조회 결과 불명 (5xx · 타임아웃 · 경보 코드) | WARN | 다음 주기에 다시 조회한다 |
+
+- **`updated_at`을 건드리지 않는 이유**: 1시간 종결은 `updated_at`을 기준으로 한다. 판정하지 못할 때마다 갱신하면 시계가 계속 리셋돼, 영원히 사람에게 넘어가지 않는다
+- **ERROR가 아니라 WARN인 이유**: 1분마다 같은 주문을 다시 보므로 ERROR면 1시간에 60번 찍힌다. 판정되지 않은 주문은 ⑤가 ERROR로 한 번 알린다(ADR 0030)
+
+**반영이 0건이면**
+- 읽은 뒤 요청이나 다른 인스턴스가 먼저 처리한 것이다. 정상이라 WARN으로 끝낸다
+- 그 주문은 `updated_at`이 바뀌어, 아직 판정되지 않았더라도 다시 5분이 지나야 대상이 된다
+
+### ⑤ 1시간 경보
+
+**무엇을 하나**
+- 이번 실행에서 1시간 경계를 막 넘긴 주문만 찾는다(`findAbandonedOrderNumbers`). 구간은 `(직전 경계, 이번 경계]`다
+- 있으면 ERROR 한 줄(`결제 1시간 미판정, 수동 처리 필요 count=N`)과 주문번호 목록 WARN 한 줄을 남긴다
+
+**왜 그렇게 하나**
+- **한 번만 알린다.** 매 주기 1시간 넘은 주문 전체를 찍으면, 사람이 처리할 때까지 같은 주문이 계속 찍힌다
+- **기동 후 첫 실행은 전체를 알린다.** 직전 경계는 인스턴스 메모리라 재시작하면 사라진다. 서버가 내려가 있는 동안 경계를 넘은 주문이 빠지지 않게 한다. 중복은 허용하고 누락은 허용하지 않는다
+- **경계는 조회가 성공한 뒤에만 옮긴다.** 실패하면 다음 실행이 같은 구간부터 다시 본다
+- **자동으로 취소하지 않는다.** 돈이 빠져나갔을 수 있다. 운영자가 토스 개발자센터에서 `paymentKey`로 확인하고 DB로 처리한다. 절차는 [payment.md](../../domains/purchase/payment.md)의 "복구 배치"
+
+## 코드 위치
+
+| 그림의 단계 | 메서드 |
+|---|---|
+| 0 | `PaymentRecoveryScheduler.run` — `@Scheduled`, `SchedulingConfig`, `application.yml`의 `spring.task.scheduling` |
+| ① | `PaymentRecoveryService.findTargetIds` → `OrderRepository.findRecoveryTargetIds` |
+| ② | `PaymentRecoveryScheduler.recoverStuckOrders` → `PaymentRecoveryService.recover` → `PaymentTransitions.readForRecovery` |
+| ③ | `PaymentGateway.getPayment` → `TossPaymentGateway` (`tossLookupRestClient`) |
+| ④ | `PaymentTransitions.applySuccess` · `applyRejection`의 `readUpdatedAt` 오버로드 |
+| CAS | `OrderRepository.applyPaymentSuccess` · `applyPaymentRejection` |
+| ⑤ | `PaymentRecoveryScheduler.alertAbandoned` → `OrderRepository.findAbandonedOrderNumbers` |
+| 테스트 | `PaymentRecoveryTest` — 판정 15건, 스케줄러 4건 |

diff --git a/docs/diagrams/README.md b/docs/diagrams/README.md
@@ -14,7 +14,7 @@
 | [주문 생성](purchase/seq-order-create.md) | 동시 주문에서 재고가 초과 판매되지 않고, 같은 요청이 왜 주문을 두 번 만들지 않는가 | [order.md](../domains/purchase/order.md) |
 | [결제 승인](purchase/seq-payment-confirm.md) | 토스 승인을 어떻게 한 번만 호출하고, 결과를 모를 때 어떻게 넘기는가 | [payment.md](../domains/purchase/payment.md) |
 | [결제 게이트웨이](purchase/payment-gateway.md) | 서비스는 토스를 어디까지 알고, 토스 응답은 어떻게 성공 · 확정 거절 · 결과 불명으로 갈리는가 | [payment.md](../domains/purchase/payment.md) |
-| [결제 복구 배치](purchase/seq-payment-recovery.md) | 결과를 모른 채 멈춘 결제·환불 주문을 어떻게 토스 기준으로 바로잡는가 | [payment.md](../domains/purchase/payment.md) |
+| [결제 복구 배치](purchase/seq-payment-recovery.md) | 결과를 모른 채 멈춘 결제 주문을 어떻게 토스 기준으로 바로잡는가 (환불 판정은 12단계) | [payment.md](../domains/purchase/payment.md) |
 | [주문 상태](purchase/state-order.md) | 주문은 어떤 상태를 거치고, 언제 재고를 점유·복구하는가 | [order.md](../domains/purchase/order.md) |
 | [ERD](images/erd.png) | 테이블과 관계 | `src/main/resources/db/migration` |
 
